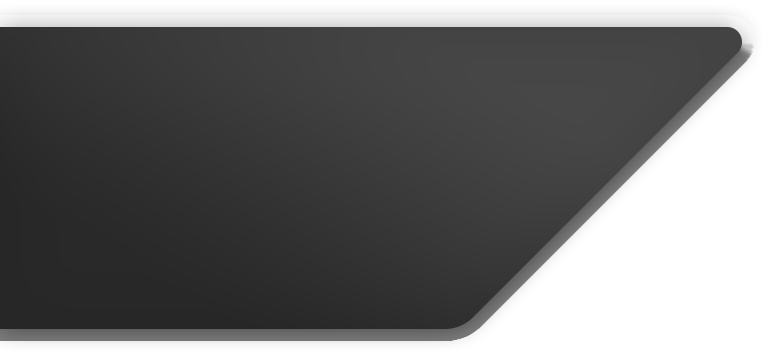
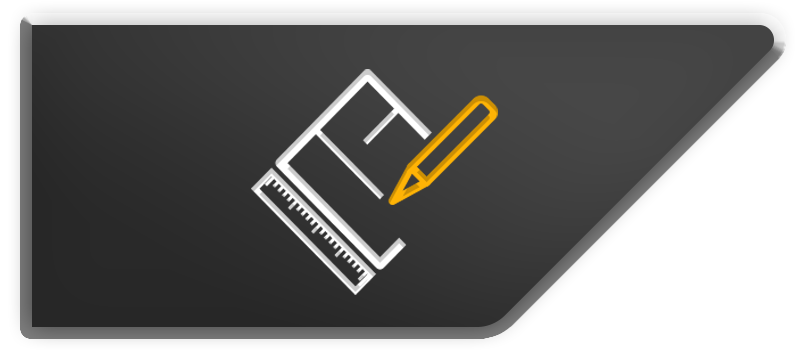
Replaced placeholder graphics.  Fixed leftImage-tableview-scroll-disappearance bug.  Fixed back button progression out of edited RFI.  Stephen Barker, Digital Frontiers Media.

diff --git a/app/controllers/home.js b/app/controllers/home.js
@@ -196,6 +196,7 @@ var resetRfiActions = function() {
 	//$.View_rfis.opacity = 1;
 	$.View_rfis.animate(Titanium.UI.createAnimation({opacity:1, duration:250}));	
 	$.home.remove(rfiActions);
+	rfiActions = $.UI.create('View');
 };
 
 var rfiRouter = function(e) {
@@ -215,18 +216,21 @@ var rfiRouter = function(e) {
 var goRfis = function() {
 	global.homeUIDirty = true;
 	Ti.API.info('*** RFIs ***');
-	rfiActions = $.UI.create('View', {id: 'rfiActions', classes: ['rfiActions'], opacity: 0});
-	var createRfi = $.UI.create('Label', {id: 'createRfi', classes: ['rfiActionChoice'], text: L('create_rfi')});
-	createRfi.addEventListener('click', rfiRouter);
-	rfiActions.add(createRfi);
-	var viewRfi = $.UI.create('Label', {id: 'viewRfi', classes: ['rfiActionChoice'], text: L('view_rfi')});
-	viewRfi.addEventListener('click', rfiRouter);
-	rfiActions.add(viewRfi);
-	$.home.add(rfiActions);
-	rfiActions.animate(Titanium.UI.createAnimation({opacity:1, duration:250}));
-	//$.View_rfis.opacity = 0.7;
-	$.View_rfis.animate(Titanium.UI.createAnimation({opacity:0.7, duration:250}));	
-	//global.showOptions(L('rfi'), [{option_label: L('create_rfi')}, {option_label: L('view_rfi')}], $, rfiRouter);
+	if (!$.home.getViewById('rfiActions')) {
+		Ti.API.info('creating rfiActions');
+		rfiActions = $.UI.create('View', {id: 'rfiActions', classes: ['rfiActions'], opacity: 0});
+		var createRfi = $.UI.create('Label', {id: 'createRfi', classes: ['rfiActionChoice'], text: L('create_rfi')});
+		createRfi.addEventListener('click', rfiRouter);
+		rfiActions.add(createRfi);
+		var viewRfi = $.UI.create('Label', {id: 'viewRfi', classes: ['rfiActionChoice'], text: L('view_rfi')});
+		viewRfi.addEventListener('click', rfiRouter);
+		rfiActions.add(viewRfi);
+		$.home.add(rfiActions);
+		rfiActions.animate(Titanium.UI.createAnimation({opacity:1, duration:250}));
+		//$.View_rfis.opacity = 0.7;
+		$.View_rfis.animate(Titanium.UI.createAnimation({opacity:0.7, duration:250}));	
+		//global.showOptions(L('rfi'), [{option_label: L('create_rfi')}, {option_label: L('view_rfi')}], $, rfiRouter);
+	}
 };
 
 var goDrawings = function() {

diff --git a/app/controllers/rfis.js b/app/controllers/rfis.js
@@ -19,7 +19,7 @@ var chooseRfi = function(e) {
 var showRfis = function(results) {
 	Ti.API.info('konstruction.getRfis results = ' + JSON.stringify(results));
 	var x = 0;
-	var dataRow = null;
+	var dataRow = {};
 	var tableData = [];
 	var rfis = results.status == 200 ? JSON.parse(results.data).data : JSON.parse(results.data.text).data;
 	Ti.API.info('rfis  = ' + JSON.stringify(rfis));
@@ -27,8 +27,14 @@ var showRfis = function(results) {
 		global.setRfis(rfis);
 		rfis.forEach(function(rfi) {
 			if (rfi.title) {
-				dataRow = $.UI.create('TableViewRow', {uid: rfi.uid});
-				dataRow.leftImage = rfi.locked ? '/images/locked.png' : '/images/unlocked.png';
+				dataRow = $.UI.create('TableViewRow', {uid: rfi.uid, classes: ['dataRow']});
+				Ti.API.info('adding leftImage for ' + rfi.title + '...');
+				// leftImage disappears during some scroll actions for WTF reasons; Use imageView instead.
+				//dataRow.leftImage = rfi.locked ? '/images/locked.png' : '/images/unlocked.png';
+				dataRow.add($.UI.create('ImageView', {
+					image: rfi.locked ? '/images/locked.png' : '/images/unlocked.png',
+					classes: ["rfiLockStatus"]
+				}));
 				dataRow.add($.UI.create('Label', {
 					text: rfi.title,
 					classes: ["rfiChoice"]

diff --git a/app/controllers/drawings.js b/app/controllers/drawings.js
@@ -163,7 +163,7 @@ var listDrawings = function(results, preFetched) {
 			//Ti.API.info('Looking at drawing ' + drawing.name);
 			if (!drawing.deleted) {
 				item = $.UI.create('View', {uid: drawing.uid, text: drawing.name, classes: ["gridItem"]});
-				var imageUrl = (drawing.uid.indexOf('.jpg') > -1 || drawing.uid.indexOf('.png') > -1) ? drawing.url : '/images/locked.png';
+				var imageUrl = (drawing.uid.indexOf('.jpg') > -1 || drawing.uid.indexOf('.png') > -1) ? drawing.url : '/images/thumb_drawing_placeholder.png';
 				item.add($.UI.create('ImageView', {image: imageUrl, classes: ["itemImage"]}));
 				item.add($.UI.create('Label', {text: drawing.name + ' (' + drawing.version_name + ')', classes: ["itemLabel"]}));
 				item.addEventListener('click', function() {

diff --git a/app/controllers/documents.js b/app/controllers/documents.js
@@ -76,7 +76,7 @@ var listDocuments = function(results) {
 		documents.forEach(function(document) {
 			if (!document.deleted) {
 				item = $.UI.create('View', {url: document.url, text: document.name, classes: ["gridItem"]});
-				var imageUrl = (document.url.indexOf('.jpg') > -1 || document.url.indexOf('.png') > -1) ? document.url : '/images/locked.png';
+				var imageUrl = (document.url.indexOf('.jpg') > -1 || document.url.indexOf('.png') > -1) ? document.url : '/images/thumb_drawing_placeholder.png';
 				item.add($.UI.create('ImageView', {image: imageUrl, classes: ["itemImage"]}));
 				if (document.folder == currentFolder) {
 					item.add($.UI.create('Label', {text: document.name,classes: ["itemLabel"]}));

diff --git a/app/assets/syncService.js b/app/assets/syncService.js
@@ -155,6 +155,7 @@ var cacheDrawings = function(results) {
 			//_.findWhere(drawings, {uid: drawing.uid}).drawing = _.findWhere(cachedDrawings, {uid: drawing.uid}).drawing;
 			//global.setDrawings(drawings);
 			global.konstruction.createDrawingPacket(JSON.stringify(data), preProcessDrawing, drawing.uid);
+			//global.UTIL.sleep(20000);
 		});
 	}
 };

diff --git a/app/controllers/rfi_view.js b/app/controllers/rfi_view.js
@@ -260,7 +260,8 @@ var handleEdit = function(clicked) {
 };
 
 var closeAndRefreshRfis = function() {
-	$.rfi_view.close();
+	Titanium.Android.currentActivity.finish();
+	Titanium.Android.currentActivity.finish();	
 	Alloy.createController('rfis').getView().close();
 	Alloy.createController('rfis', {forceRefresh: true}).getView().open();
 };

diff --git a/app/lib/utilities.js b/app/lib/utilities.js
@@ -579,3 +579,13 @@ exports.arrayTarget_search = function(needle, haystack) {
     }
     return -1;
 };
+
+/**
+ * Sleep during an async-wrapped function
+ * @param {Integer} [ms] The number of milliseconds to sleep
+ */
+exports.sleep = function(ms) {
+  return new Promise(function(resolve, ms) {
+  	setTimeout(resolve, ms);
+  });
+};

diff --git a/app/controllers/rfi_entry.js b/app/controllers/rfi_entry.js
@@ -46,7 +46,8 @@ var handleEdit = function(e) {
 };
 
 var closeAndRefreshRfis = function() {
-	$.rfi_entry.close();
+	Titanium.Android.currentActivity.finish();
+	Titanium.Android.currentActivity.finish();	
 	Alloy.createController('rfis').getView().close();
 	Alloy.createController('rfis', {forceRefresh: true}).getView().open();
 };
